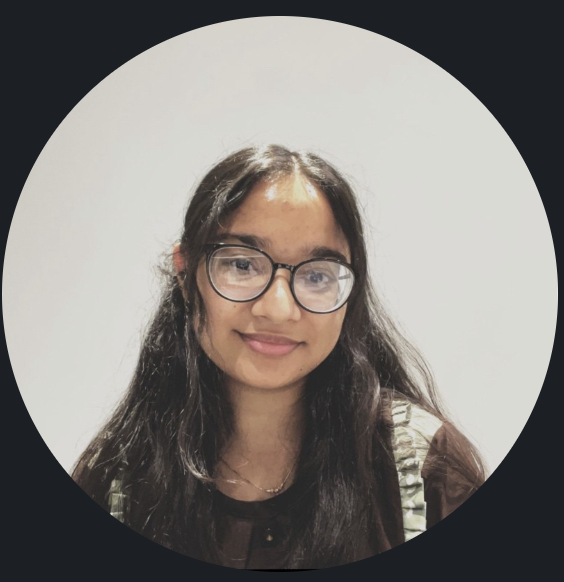
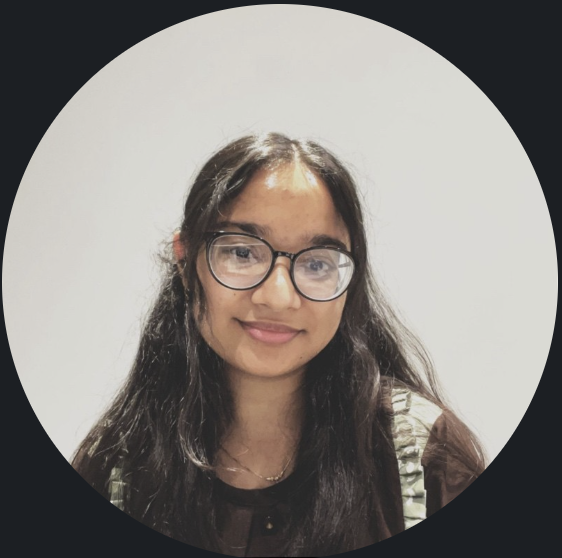
replaced temp images for the doctor teams with proper images

diff --git a/src/pages/DoctorProfile/doctorHomePage.jsx b/src/pages/DoctorProfile/doctorHomePage.jsx
@@ -14,6 +14,15 @@ import {
 import { CalendarIcon } from "@chakra-ui/icons";
 import { FaUserFriends, FaUserMd } from "react-icons/fa";
 
+//Team Images
+import Deedat from "../../assets/Team/Deedat.png"
+import Abir from "../../assets/Team/Abir.png"
+import Rahat from "../../assets/Team/Rahat.png"
+import Kazi from "../../assets/Team/Kazi.png"
+import Kevin from "../../assets/Team/Kevin.png"
+import Lubna from "../../assets/Team/Lubna.png"
+
+
 function DoctorHome() {
   return (
     <ChakraProvider>
@@ -60,6 +69,9 @@ function DoctorHome() {
         </CardBody>
       </Card>
 
+
+
+    {/* DOCTOR TEAM CARD */}
       <Card borderRadius="20px" height="300px" width="100%">
         <CardHeader bg="#EFF8F8" borderRadius="20px 20px 0px 0px">
           <Heading fontSize="2xl" color="black">
@@ -76,9 +88,9 @@ function DoctorHome() {
           <HStack align="center" justify="center" spacing={20}>
             <VStack>
               <Avatar
-                size="xl"
+                size="2xl"
                 name="Dr. A Bear"
-                src="https://bit.ly/dan-abramov" // random image
+                src={Abir} // random image
               />
               <Text fontSize="lg" color="#737373">
                 Dr. A Bear
@@ -86,9 +98,9 @@ function DoctorHome() {
             </VStack>
             <VStack>
               <Avatar
-                size="xl"
+                size="2xl"
                 name="Dr. Kave"
-                src="https://bit.ly/kent-c-dodds" // random image
+                src={Kevin} // random image
               />
               <Text fontSize="lg" color="#737373">
                 Dr. Kave
@@ -96,9 +108,9 @@ function DoctorHome() {
             </VStack>
             <VStack>
               <Avatar
-                size="xl"
+                size="2xl"
                 name="Dr. Rahhh"
-                src="https://bit.ly/ryan-florence" // random image
+                src={Rahat} // random image
               />
               <Text fontSize="lg" color="#737373">
                 Dr. Rahhh
@@ -106,9 +118,9 @@ function DoctorHome() {
             </VStack>
             <VStack>
               <Avatar
-                size="xl"
+                size="2xl"
                 name="Dr. Lube"
-                src="https://bit.ly/ryan-florence" // random image
+                src={Lubna} // random image
               />
               <Text fontSize="lg" color="#737373">
                 Dr. Lube
@@ -116,9 +128,9 @@ function DoctorHome() {
             </VStack>
             <VStack>
               <Avatar
-                size="xl"
+                size="2xl"
                 name="Dr. Deed"
-                src="https://bit.ly/ryan-florence" // random image
+                src={Deedat} // random image
               />
               <Text fontSize="lg" color="#737373">
                 Dr. Deed
@@ -126,9 +138,9 @@ function DoctorHome() {
             </VStack>
             <VStack>
               <Avatar
-                size="xl"
+                size="2xl"
                 name="Dr. Kazoo"
-                src="https://bit.ly/ryan-florence" // random image
+                src={Kazi} // random image
               />
               <Text fontSize="lg" color="#737373">
                 Dr. Kazoo
